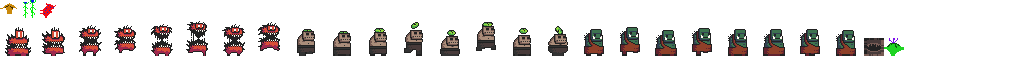
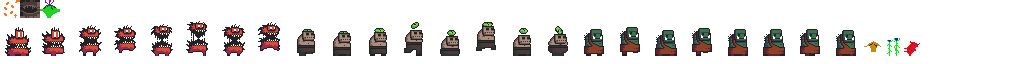
Add new assets
Now I can have a background and eventually some seeds for the crops.

Changed region(s): [[0.0, 0.0, 0.0625, 0.2812], [0.8438, 0.5938, 0.9062, 0.875]]

diff --git a/assets/floor.tsx b/assets/floor.tsx
@@ -1,0 +1,31 @@
+<?xml version="1.0" encoding="UTF-8"?>
+<tileset version="1.5" tiledversion="1.5.0" name="floor" tilewidth="16" tileheight="16" tilecount="9" columns="0">
+ <grid orientation="orthogonal" width="1" height="1"/>
+ <tile id="0">
+  <image width="16" height="16" source="pieces/floor_1.png"/>
+ </tile>
+ <tile id="1">
+  <image width="16" height="16" source="pieces/floor_2.png"/>
+ </tile>
+ <tile id="2">
+  <image width="16" height="16" source="pieces/floor_3.png"/>
+ </tile>
+ <tile id="3">
+  <image width="16" height="16" source="pieces/floor_4.png"/>
+ </tile>
+ <tile id="4">
+  <image width="16" height="16" source="pieces/floor_5.png"/>
+ </tile>
+ <tile id="5">
+  <image width="16" height="16" source="pieces/floor_6.png"/>
+ </tile>
+ <tile id="6">
+  <image width="16" height="16" source="pieces/floor_7.png"/>
+ </tile>
+ <tile id="7">
+  <image width="16" height="16" source="pieces/floor_8.png"/>
+ </tile>
+ <tile id="8">
+  <image width="16" height="16" source="pieces/hole.png"/>
+ </tile>
+</tileset>
